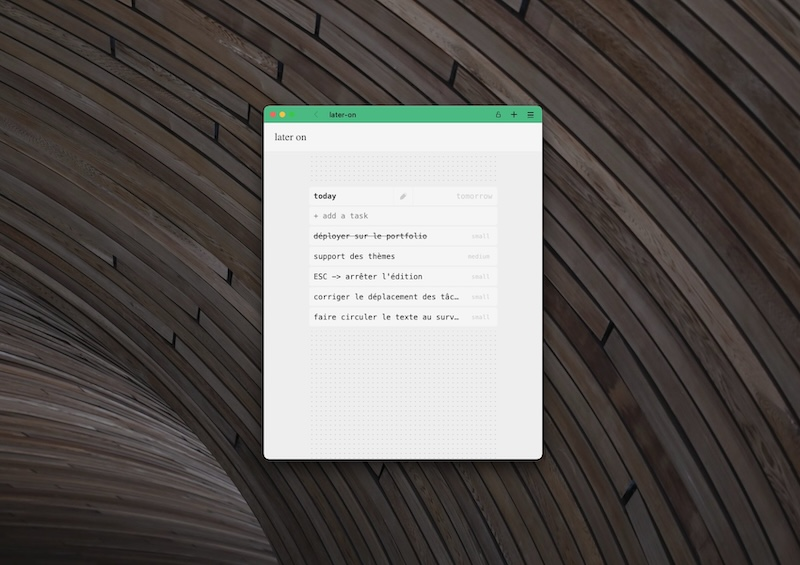
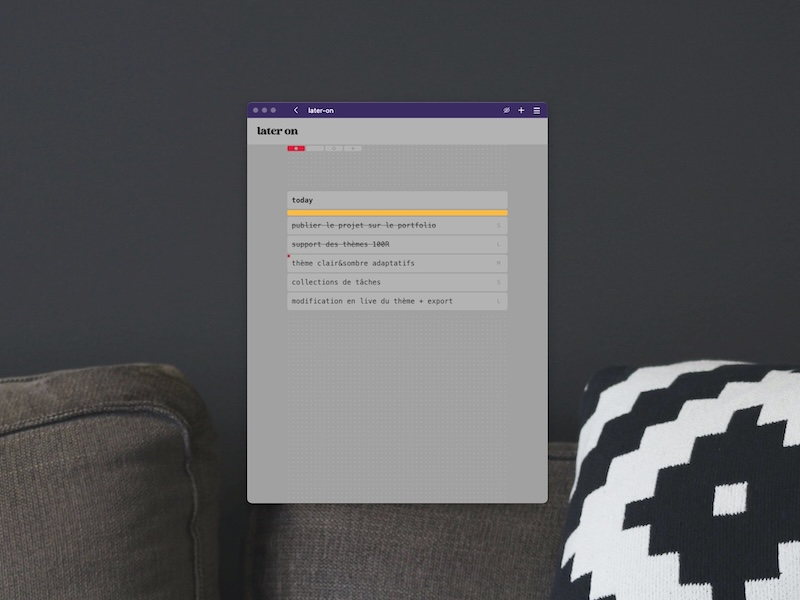
update the "later on" project description

diff --git a/src/content/projects/later-on.md b/src/content/projects/later-on.md
@@ -3,7 +3,7 @@ author: 'monsieurluge'
 cover: './later-on.jpg'
 coverAlt: "image présentant l'application en cours d'utilisation"
 description: "application web d'organisation de tâches sur deux jours"
-lastUpdate: '2024-09-24'
+lastUpdate: '2024-12-11'
 layout: '../../layouts/ArticleLayout.astro'
 tags: ['application', 'vuejs']
 title: 'Later On'
@@ -43,6 +43,7 @@ Mais également, sans ordre de priorité :
 - attribution d'un _poids_ aux tâches
 - gestion automatique des thèmes
 - prise en charge de thèmes personnalisés
+- collections de tâches
 - prise en charge de plusieurs langues (*)
 - raccourcis claviers configurables (*)
 - statistiques d'utilisation (*)
@@ -59,11 +60,6 @@ J'ai fait le choix de ne pas utiliser de librairie tierce (comme <a href="https:
 
 La gestion d'une manipulation aussi banale que le glisser-déposer est plus complexe à mettre en oeuvre qu'il n'y paraît, surtout lorsque plusieurs zones de dépôt sont définies et proposent des comportements spécifiques. De plus, rendre la manipulation fluide et compréhensible pour l'utilisateur n'est pas chose aisée et demande de nombreux ajustements.
 
-Compétences travaillées :
-
-- UX
-- programmation évènementielle
-
 ### mode édition
 
 :information_source: Cette fonctionnalité est encore en cours de développement et va connaître quelques changements. D'ici sa stabilisisation cette section reste à l'état de brouillon.
@@ -72,11 +68,15 @@ Pour renommer ou supprimer une tâche il y a le mode "édition" disponible au cl
 
 Une fois encore, l'action est très banale. Cependant la réflexion nécessaire pour rendre l'expérience fluide pour l'utilisateur, ainsi que la gestion des états de l'application et des comportements associés ne sont pas anodines et peut mener rapidement à du code difficile à maintenir.
 
-Compétences travaillées :
+### design global
 
-- UX
-- manipulation des _stores_
-- gestion d'une machine à _états-transitions_ (en cours de mise en place)
+Je souhaitais proposer un design extrêmement épuré mais fonctionnel. N'étant pas UX designer cette contrainte pesa lourd dans la conception de l'interface, dans la création des composants et de leurs intéractions. Sans compter que le travail est loin d'être terminé...
+
+Voici quelques contraintes de design que j'ai suivies et auxquelles je me plie depuis le démarrage du projet :
+
+- largeur réduite et fixe pour le contenu principal, quelque soit la résolution de l'affichage
+- nombre d'éléments affichés en même temps limité à l'extrême
+- thème ultra personnalisable (cf. section ci-dessous)
 
 ## Thèmes
 
